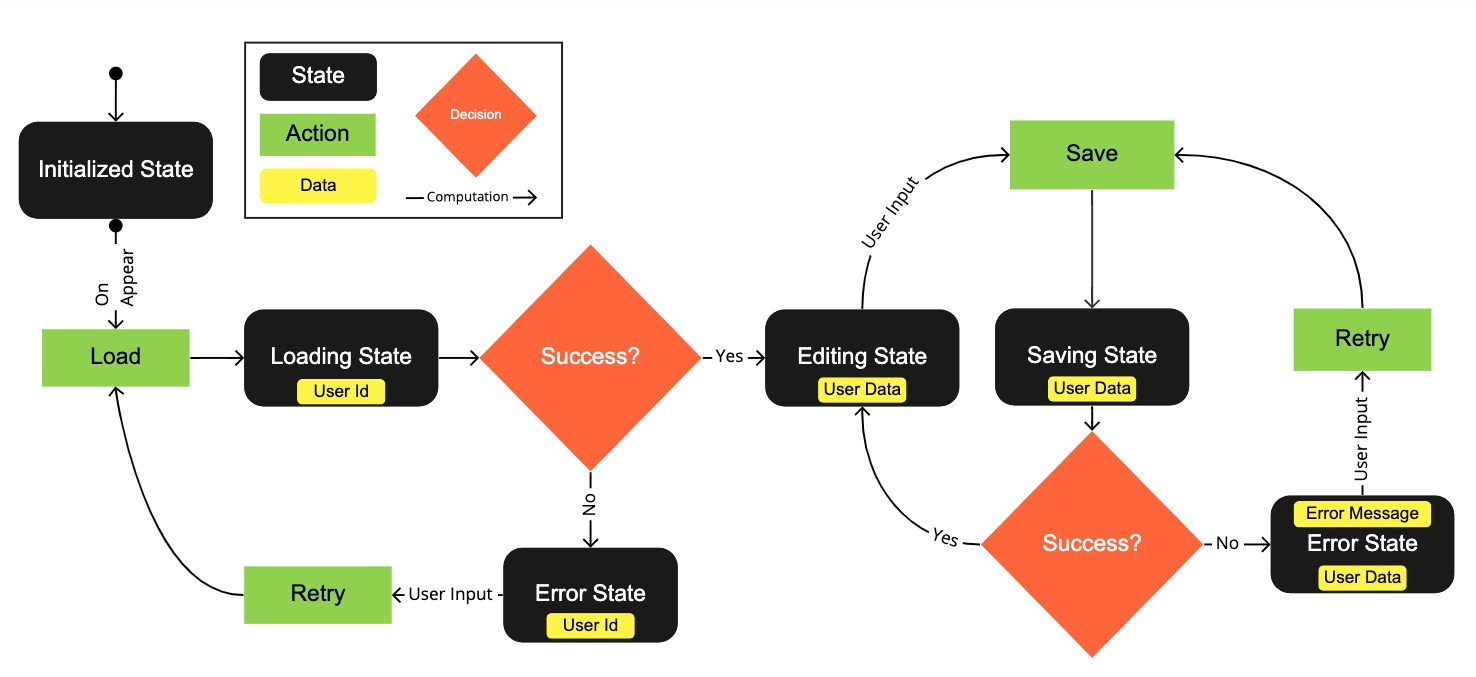
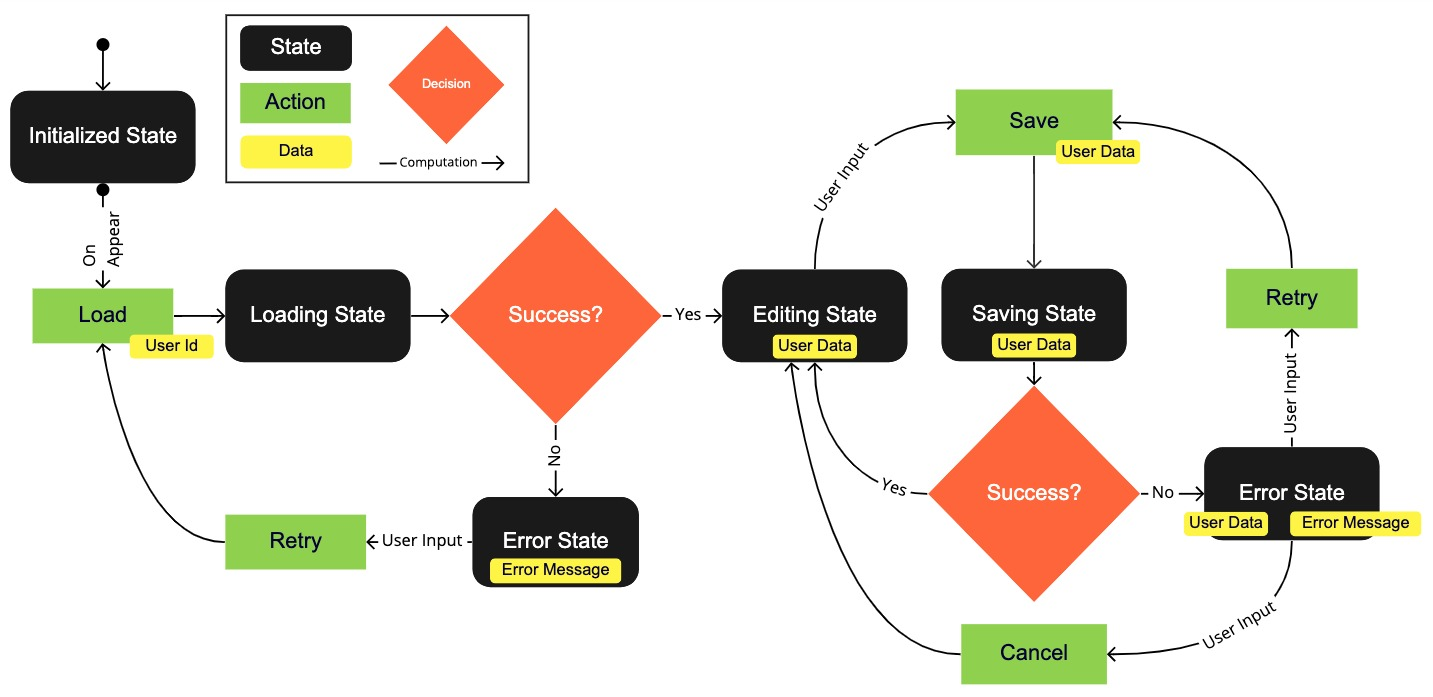
updated examples and added reference articles

diff --git a/Sources/VSM/Documentation.docc/ComprehensiveGuide/FeatureRequirements.md b/Sources/VSM/Documentation.docc/ComprehensiveGuide/FeatureRequirements.md
@@ -148,11 +148,10 @@ enum UserProfileViewState {
 
 #### Defining the Models
 
-Now that we have our states, we can define the models for each state with their associated data and actions. As you can see from the above chart, the `initialized` state will need a User Id property and a `load()` action, so we will define our module with a simple `struct` like so:
+Now that we have our states, we can define the models for each state with their associated data and actions. As you can see from the above chart, the `initialized` state will need a `load()` action, so we will define our module with a simple `struct` like so:
 
 ```swift
 struct LoaderModel {
-  let userId: Int
   let load: () -> AnyPublisher<UserProfileViewState, Never>
 }
 ```
@@ -170,13 +169,13 @@ Next, we'll define the model for the `editing` state. As per the diagram, this w
 ```swift
 struct EditingModel {
   var data: UserData
-  let saveDisplayName: (String) -> AnyPublisher<UserProfileViewState, Never>
+  let saveUsername: (String) -> AnyPublisher<UserProfileViewState, Never>
 }
 ```
 
-The unique thing about this model from the previous example is that the `saveDisplayName` function expects a String parameter that represents the new username. The view will be responsible for passing the User Name textbox value to this function when it is called.
+The unique thing about this model from the previous example is that the `saveUsername` function expects a String parameter that represents the new username. The view will be responsible for passing the User Name textbox value to this function when it is called.
 
-Finally, we'll use the same approach to build error models for the `loadingError` and `savingError` states. These models will need to provide an error message String and a `retry()` action for the user to press in case of error. For the `savingError`, an additional `UserData` property is needed so that the view can display it along with the error.
+Finally, we'll use the same approach to build error models for the `loadingError` and `savingError` states. These models will need to provide an error message String and a `retry()` action for the user to press in case of error. For the `savingError`, an additional `UserData` property is needed for the view to display along with the error. The `savingError` model will also have a `cancel()` action that will allow the user to go back to editing.
 
 ```swift
 struct LoadingErrorModel {
@@ -188,6 +187,7 @@ struct SavingErrorModel {
   let data: UserData
   let message: String
   let retry: () -> AnyPublisher<UserProfileViewState, Never>
+  let cancel: () -> AnyPublisher<UserProfileViewState, Never>
 }
 ```
 
@@ -220,9 +220,8 @@ enum UserProfileViewState {
   case saving(UserData)
   case savingError(SavingErrorModel)
 
-  struct EditingModel {
-    var data: UserData
-    let saveDisplayName: (String) -> AnyPublisher<UserProfileViewState, Never>
+  struct LoaderModel {
+    let load: () -> AnyPublisher<UserProfileViewState, Never>
   }
 
   struct LoadingErrorModel {
@@ -230,10 +229,16 @@ enum UserProfileViewState {
     let retry: () -> AnyPublisher<UserProfileViewState, Never>
   }
 
+  struct EditingModel {
+    var data: UserData
+    let saveUsername: (String) -> AnyPublisher<UserProfileViewState, Never>
+  }
+  
   struct SavingErrorModel {
     let data: UserData
     let message: String
     let retry: () -> AnyPublisher<UserProfileViewState, Never>
+    let cancel: () -> AnyPublisher<UserProfileViewState, Never>
   }
 }
 ```
@@ -250,9 +255,9 @@ You have absolute creative freedom in how the feature requirements are modeled i
 
 #### Simple Feature Shapes
 
-While the above feature shape is a good design, it is a fairly complex example for VSM. There is an opportunity here to simplify further by separating some concerns across multiple smaller VSM components. To do this, look for a way to cleanly break the state into smaller, less complex type graphs.
+While the above feature shape is a good design, it is a fairly complex example for VSM. There is an opportunity here to simplify further by separating some concerns across multiple smaller VSM components. To do this, look for a way to cleanly break the state into smaller, less complex type graphs. It also helps to consider how this feature shape will be interpreted by the view, then optimize for efficiency without sacrificing safety where possible.
 
-Considering that loading the `UserData` only happens once for the entire lifecycle of this feature. The `initialized`, `loading`, and `loadingError` states can be split off to a parent view. Once loaded, the parent view can show the Editing View as its child, passing the `UserData` to it upon construction. If we follow this approach, we end up with two separate, but related VSM components, each with its own states, data, and actions.
+The loading of `UserData` only happens once for the entire lifecycle of this feature. Therefore, the `initialized`, `loading`, and `loadingError` states can be split off to a parent view. Once loaded, the parent view can show the Editing View as its child, passing the `UserData` to it upon construction. If we follow this approach, we end up with two separate, but related VSM components, each with its own states, data, and actions.
 
 As described above, the parent VSM component will have the following view state definition:
 
@@ -264,7 +269,6 @@ enum LoadUserProfileViewState {
   case loaded(UserData)
 
   struct LoaderModel {
-    let userId: Int
     let load: () -> AnyPublisher<LoadUserProfileViewState, Never>
   }
 
@@ -275,12 +279,12 @@ enum LoadUserProfileViewState {
 }
 ```
 
-In the above example, the `loading` and `loadingError` concepts are separated from the editing functionality. Instead of providing a model for the `loaded` state, we provide only the raw `UserData` value that can be used by the Loader View to hydrate the Editing View, as defined below:
+In the above example, the `UserData` loading states are extracted into their own view state. Instead of providing a model for the `loaded` state, we provide only the raw `UserData` value that can be used by the Loader View to hydrate the Editing View, as defined below:
 
 ```swift
 struct EditUserProfileViewState {
   var data: UserData
-  var state: EditingState
+  var editingState: EditingState
 
   enum EditingState {
     case editing(EditingModel)
@@ -294,12 +298,13 @@ struct EditUserProfileViewState {
 
   struct ErrorModel {
     let message: String
-    let retry: () -> AnyPublisher<LoadUserProfileViewState, Never>
+    let retry: () -> AnyPublisher<EditUserProfileViewState, Never>
+    let cancel: () -> AnyPublisher<EditUserProfileViewState, Never>
   }
 }
 ```
 
-The above view state is shaped a little differently than the examples found earlier in this article. We chose a `struct` as the primary Swift type for our view state because `UserData` should exist in _every_ state of the Editing View. We then have an inner `EditingState` that describes various Editing view states.
+Next, the editing functionality is moved into its own view state. This view state is shaped a little differently than the examples found earlier in this article. We chose a `struct` as the primary Swift type for our view state because `UserData` should be available to the Editing View in _every_ state. The view state also has an inner `EditingState` which describes various editing view states for the view.
 
 This is a great example of how flexible the VSM states can be to help you solve problems, and how you don't always have to use an `enum` for your view state.
 

diff --git a/Sources/VSM/Documentation.docc/Reference/ViewStateExtensions.md b/Sources/VSM/Documentation.docc/Reference/ViewStateExtensions.md
@@ -1,0 +1,24 @@
+# View State Extensions - VSM Reference
+
+<!--@START_MENU_TOKEN@-->Summary<!--@END_MENU_TOKEN@-->
+
+## Overview
+
+<!--@START_MENU_TOKEN@-->Text<!--@END_MENU_TOKEN@-->
+
+## Topics
+
+### <!--@START_MENU_TOKEN@-->Group<!--@END_MENU_TOKEN@-->
+
+- <!--@START_MENU_TOKEN@-->``Symbol``<!--@END_MENU_TOKEN@-->
+
+- todo: Expound on the following
+
+Some of these unique requirements may include any combination of the following situations:
+
+- Preserving [SwiftUI view identity](https://medium.com/geekculture/identity-in-swiftui-6aacf8f587d9) between view states (for animations and memory efficiency)
+- Providing a custom `Binding<T>` to a property wrapper that requires one
+- Translating a `case` condition into a boolean, or optional value for easier access in the view
+- Reaching deep within the view state graph to grab a value for display
+- Translating a feature state value into something more palatable for viewing
+- Conforming a view state or model to `Identifiable`

diff --git a/Sources/VSM/Documentation.docc/ComprehensiveGuide/ModelDefinition.md b/Sources/VSM/Documentation.docc/ComprehensiveGuide/ModelDefinition.md
@@ -11,3 +11,6 @@
 ### <!--@START_MENU_TOKEN@-->Group<!--@END_MENU_TOKEN@-->
 
 - <!--@START_MENU_TOKEN@-->``Symbol``<!--@END_MENU_TOKEN@-->
+
+
+-- todo: Requires a general understanding of state machines and simple recursion

diff --git a/Sources/VSM/Documentation.docc/Reference/Navigation.md b/Sources/VSM/Documentation.docc/Reference/Navigation.md
@@ -1,0 +1,4 @@
+#  Navigation - VSM Reference
+
+- todo: Use view framework APIs for navigation
+- todo: Dynamic navigation behavior should react to state by logic that lives in the model

diff --git a/Sources/VSM/Documentation.docc/Reference/ViewCommunication.md b/Sources/VSM/Documentation.docc/Reference/ViewCommunication.md
@@ -1,0 +1,5 @@
+#  Communicating Between Views - VSM Reference
+
+- todo: passing static data via parameters
+- todo: leaning on observable repositories
+

diff --git a/Sources/VSM/Documentation.docc/Reference/ObservableRepositories.md b/Sources/VSM/Documentation.docc/Reference/ObservableRepositories.md
@@ -1,0 +1,2 @@
+#  Observable Repositories - VSM Reference
+
